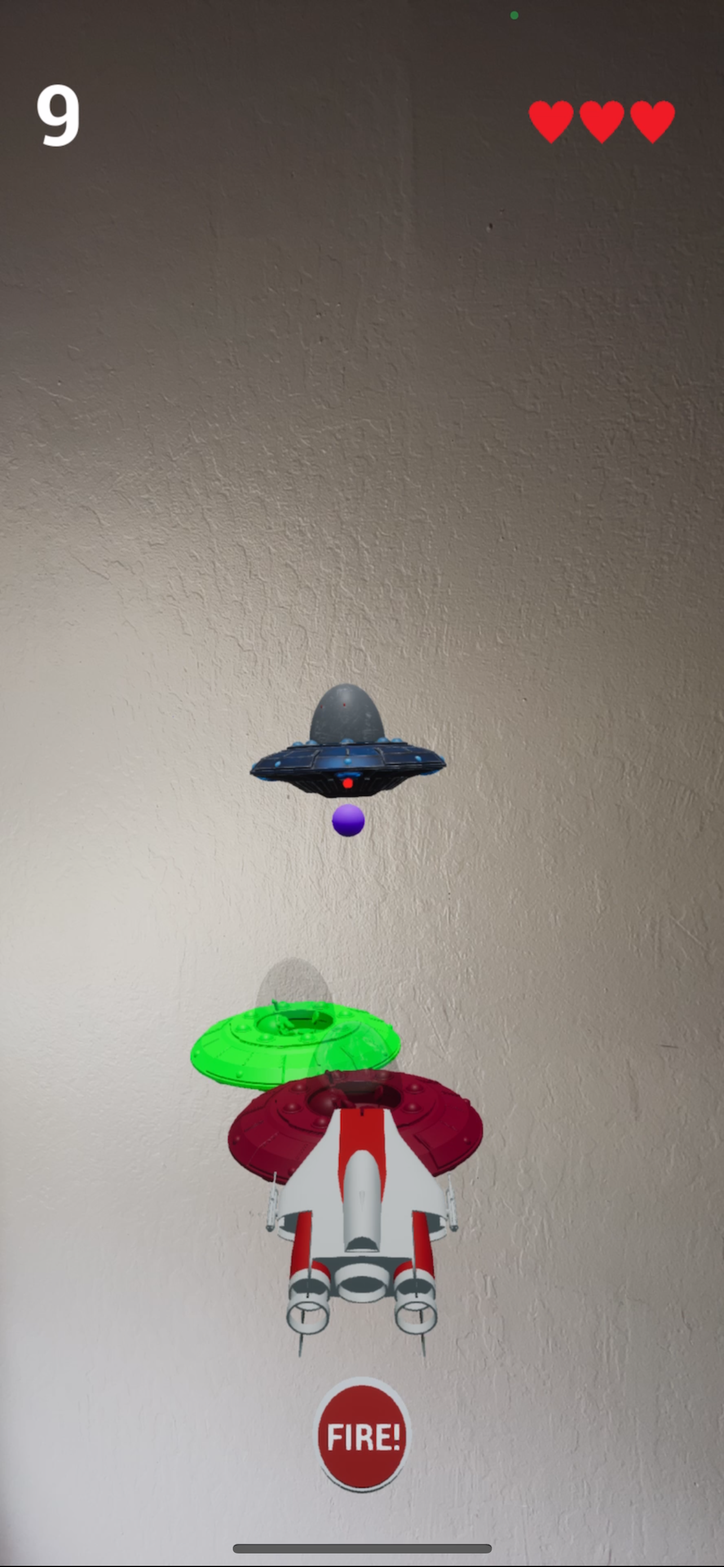
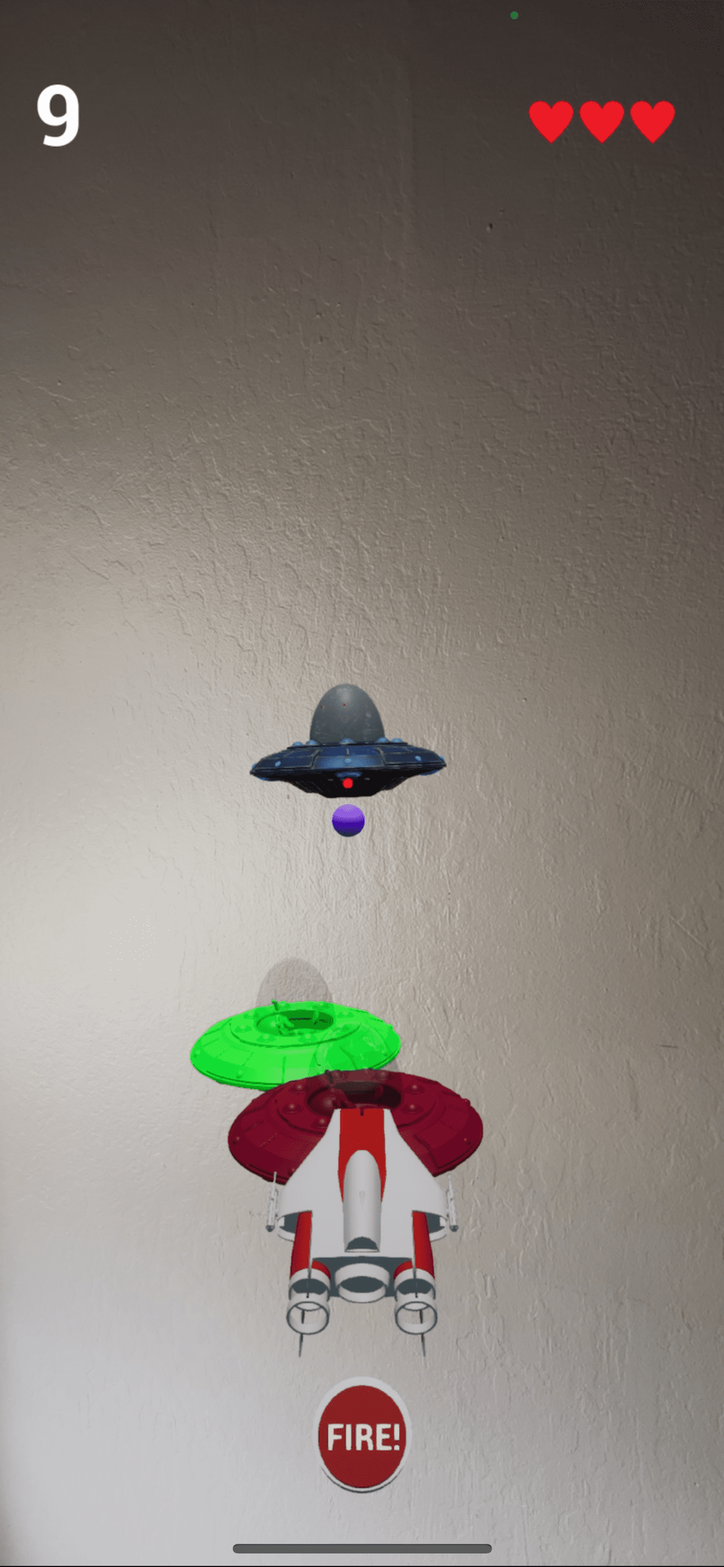
Compressed project photos for smaller file sizes.

diff --git a/frontend/src/pages/ProjectsPage.js b/frontend/src/pages/ProjectsPage.js
@@ -98,7 +98,7 @@ function ProjectsPage() {
                 >
                   <img
                     id="GalagaAR-Gameplay-1"
-                    src="../images/sort-timer.png"
+                    src="../images/GalagaAR-Gameplay-1.png"
                     alt="GalagaAR gameplay example"
                     style={{ width: "60%", height: "auto" }}
                   />
